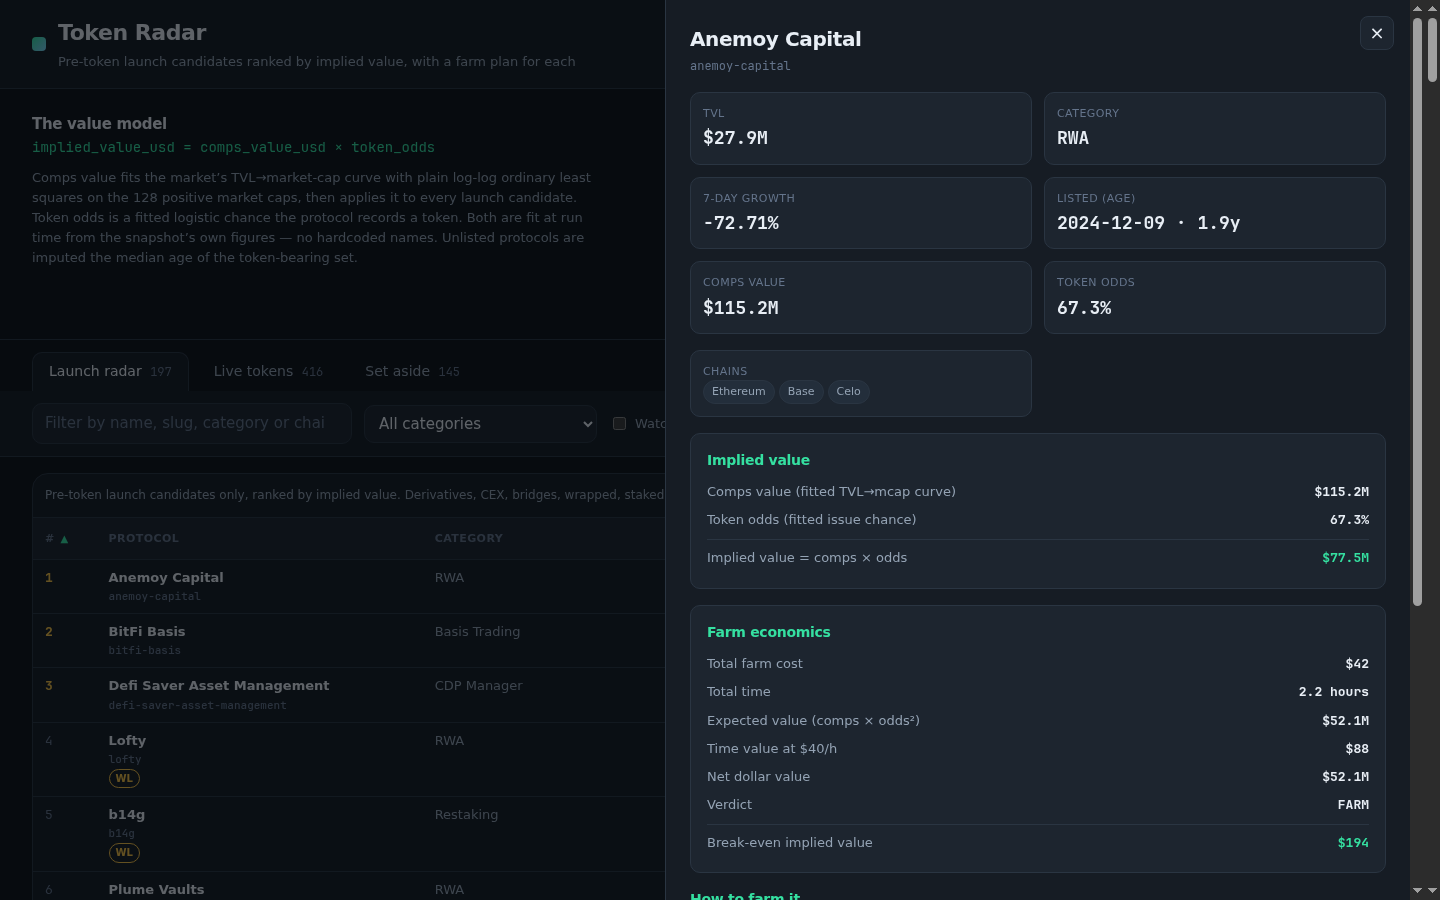
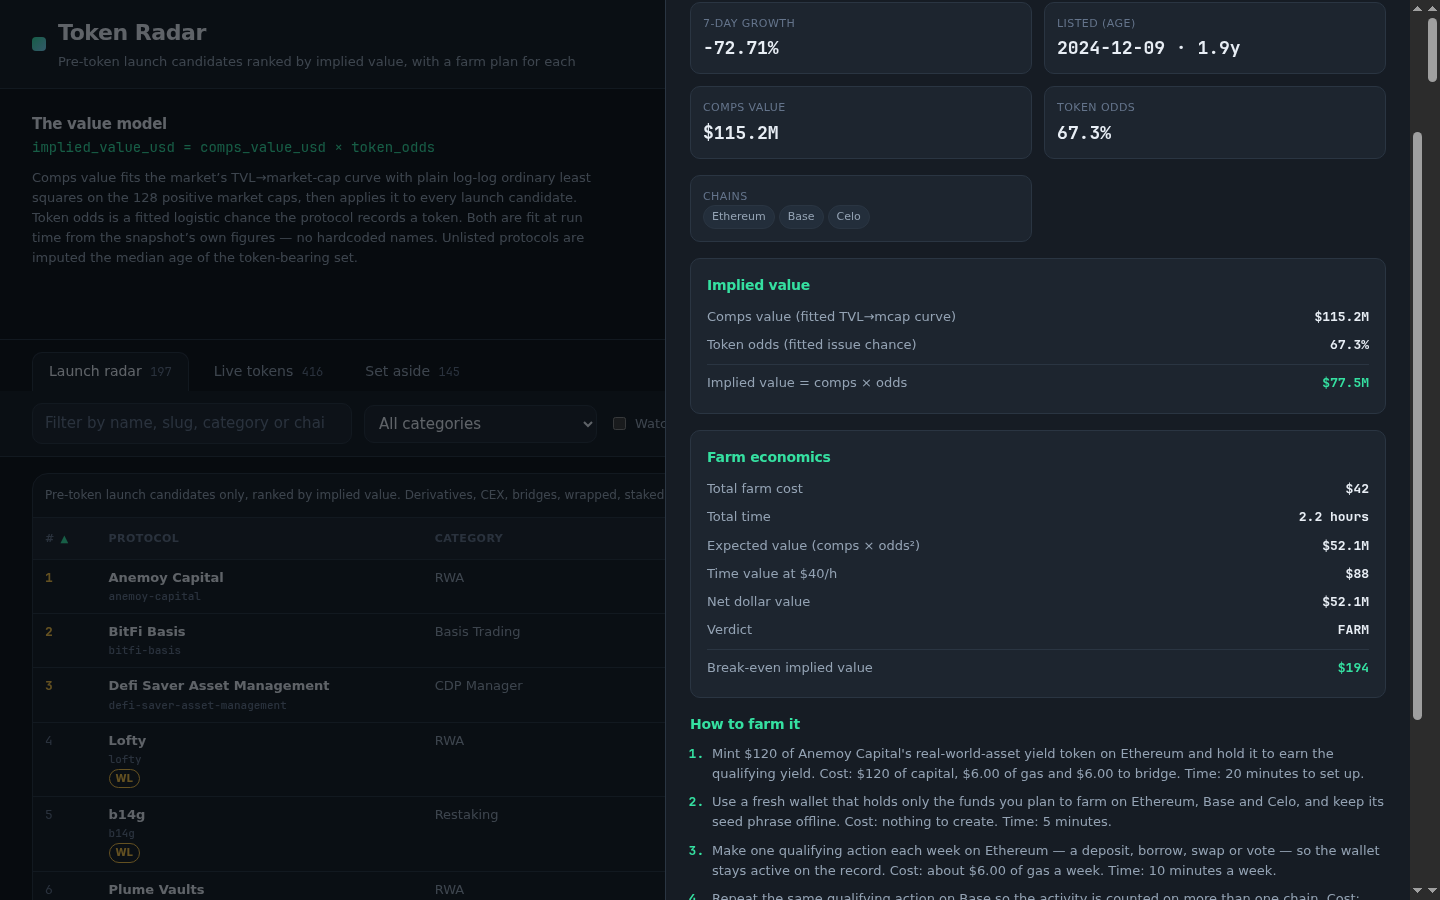
token-radar v3 fix: scroll detail shot to show farm steps

diff --git a/dashboard/app.js b/dashboard/app.js
@@ -414,6 +414,7 @@
     if (!h) { render(); return; }
     var parts = h.split('&');
     var detailSlug = null;
+    var scrollTop = 0;
     parts.forEach(function (part) {
       var kv = part.split('=');
       var k = decodeURIComponent(kv[0]);
@@ -423,11 +424,14 @@
       else if (k === 'cat') state.cat = v;
       else if (k === 'wl') state.wl = v === '1';
       else if (k === 'tab') state.tab = v;
+      else if (k === 'scroll') scrollTop = Math.max(0, parseInt(v, 10) || 0);
     });
     render();
     if (detailSlug) {
       var row = DATA.rows.filter(function (r) { return r.slug === detailSlug; })[0];
       if (row) openDetail(row);
+      var panel = document.querySelector('.drawer .panel');
+      if (panel) panel.scrollTop = scrollTop;
     }
   }
   window.addEventListener('hashchange', applyHash);
